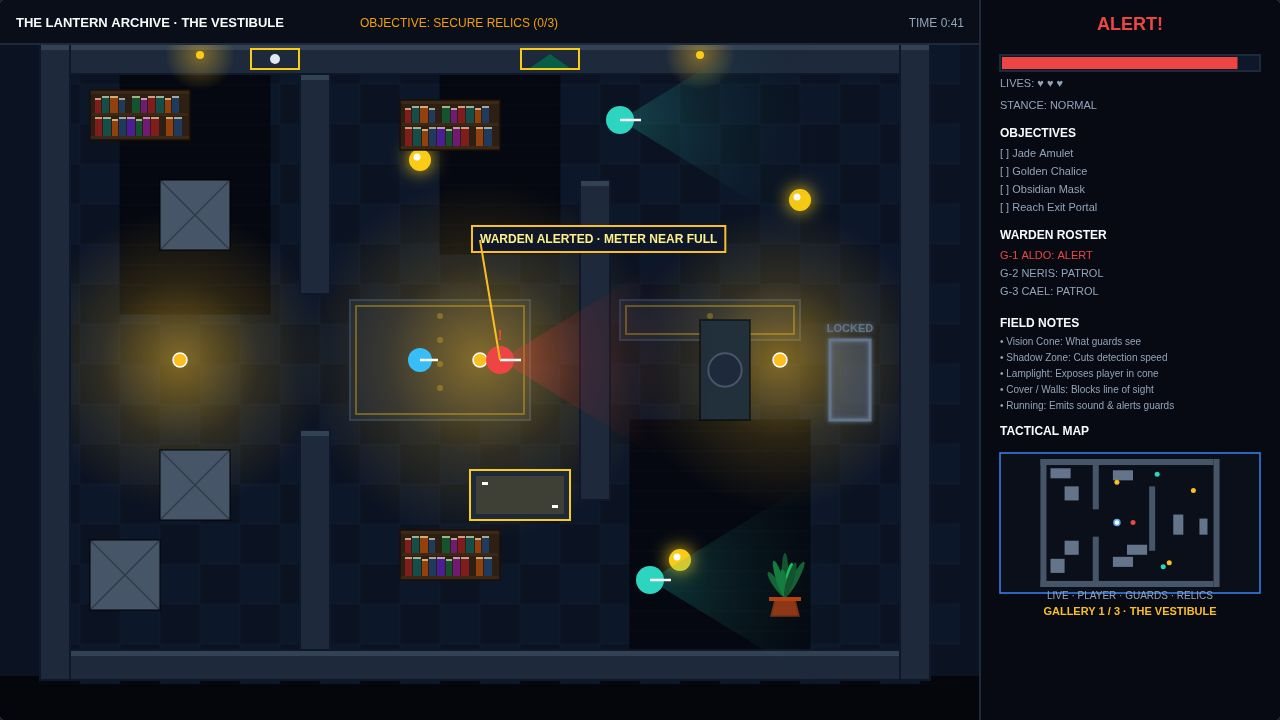
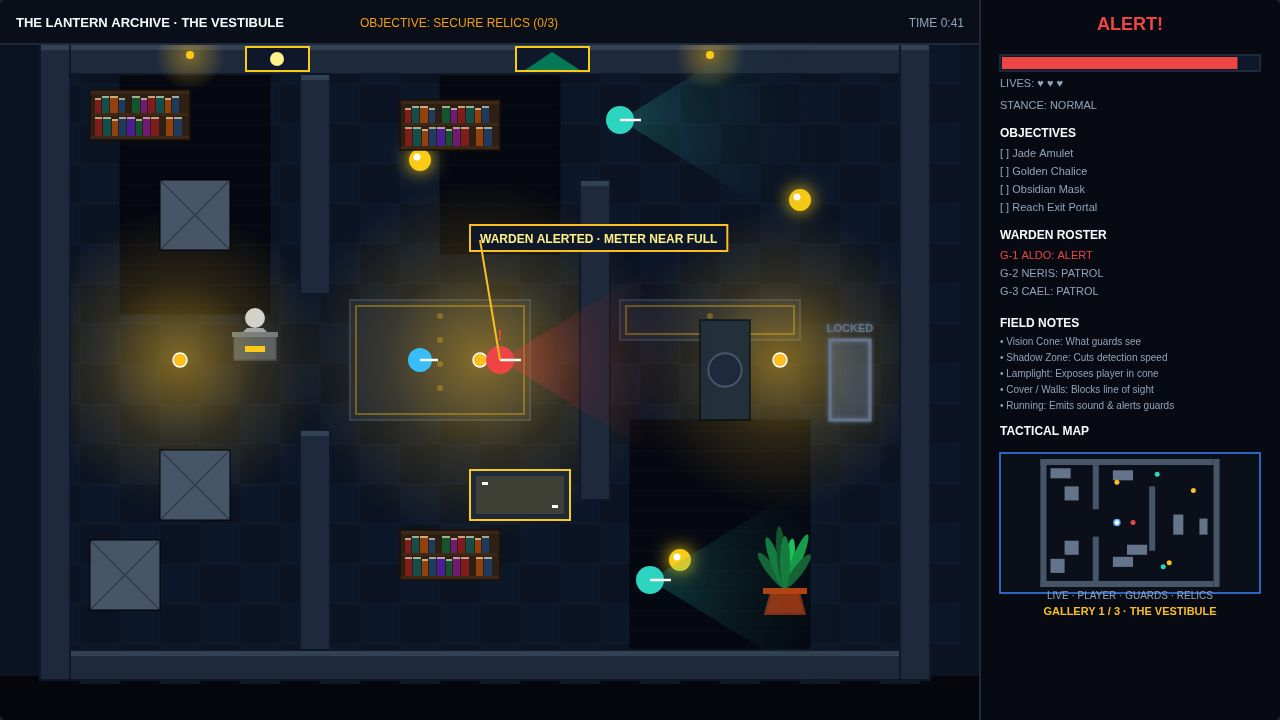
Round 5 visual fix: sneak label off bookshelf, brighter cover callout, bigger plant, statue prop, bolder paintings

diff --git a/game/src/render.js b/game/src/render.js
@@ -22,14 +22,19 @@ export class Renderer {
     // 3. Render Right Side Panel
     this.renderSidePanel(world);
     
-    // 4. Render Screenshot Annotations if requested
-    if (screenshotMode && shotName) {
+    // 4. Render Screenshot Annotations if requested (skip cover here, render cover after overlay)
+    if (screenshotMode && shotName && shotName !== 'cover') {
       this.renderAnnotations(shotName);
     }
     
     // 5. Render Overlay Screens if not playing
     if (world.state !== 'play') {
       this.renderScreen(world);
+    }
+    
+    // 6. Render Cover Annotation on top of title overlay if cover shot mode
+    if (screenshotMode && shotName === 'cover') {
+      this.renderAnnotations(shotName);
     }
   }
   
@@ -68,7 +73,6 @@ export class Renderer {
         this.ctx.strokeStyle = 'rgba(250, 204, 21, 0.35)';
         this.ctx.strokeRect(rug.x + 6, rug.y + 6, rug.w - 12, rug.h - 12);
         
-        // Diamond / dot motif along center
         this.ctx.fillStyle = 'rgba(250, 204, 21, 0.3)';
         const cx = rug.x + rug.w / 2;
         for (let ry = rug.y + 16; ry < rug.y + rug.h - 12; ry += 24) {
@@ -94,47 +98,83 @@ export class Renderer {
       }
     });
     
-    // Potted museum plants (Job 2)
+    // Decor / Museum Props (Enlarged Potted Plants & Statue Pedestal)
     if (lvl.decor) {
       lvl.decor.forEach(d => {
         this.ctx.save();
-        const px = d.x + d.w / 2;
-        const py = d.y + d.h;
-        
-        // Terracotta pot
-        this.ctx.fillStyle = '#9a3412';
-        this.ctx.beginPath();
-        this.ctx.moveTo(px - 14, py - 4);
-        this.ctx.lineTo(px + 14, py - 4);
-        this.ctx.lineTo(px + 10, py - 20);
-        this.ctx.lineTo(px - 10, py - 20);
-        this.ctx.closePath();
-        this.ctx.fill();
-        
-        this.ctx.strokeStyle = '#7c2d12';
-        this.ctx.lineWidth = 1.5;
-        this.ctx.stroke();
-        
-        // Pot rim
-        this.ctx.fillStyle = '#c2410c';
-        this.ctx.fillRect(px - 16, py - 23, 32, 4);
-        
-        // Leaves in muted greens
-        const greens = ['#166534', '#15803d', '#14532d', '#22c55e'];
-        const leafAngles = [-0.6, -0.3, 0, 0.2, 0.5, -0.1, 0.3];
-        const leafHeights = [30, 38, 44, 35, 40, 28, 36];
-        
-        leafAngles.forEach((ang, idx) => {
-          this.ctx.save();
-          this.ctx.fillStyle = greens[idx % greens.length];
-          this.ctx.translate(px, py - 23);
-          this.ctx.rotate(ang);
+        if (d.type === 'statue') {
+          // Statue on a pedestal (Job 4)
+          const px = d.x + d.w / 2;
+          const py = d.y + d.h;
+          
+          // Plinth base
+          this.ctx.fillStyle = '#475569';
+          this.ctx.fillRect(d.x + 4, py - 24, d.w - 8, 24);
+          this.ctx.strokeStyle = '#334155';
+          this.ctx.lineWidth = 1.5;
+          this.ctx.strokeRect(d.x + 4, py - 24, d.w - 8, 24);
+          
+          // Plinth cap
+          this.ctx.fillStyle = '#64748b';
+          this.ctx.fillRect(d.x + 2, py - 28, d.w - 4, 5);
+          
+          // Gold plaque
+          this.ctx.fillStyle = '#facc15';
+          this.ctx.fillRect(px - 10, py - 14, 20, 6);
+          
+          // Statue bust / figure silhouette
+          this.ctx.fillStyle = '#cbd5e1';
           this.ctx.beginPath();
-          this.ctx.ellipse(0, -leafHeights[idx]/2, 3.5, leafHeights[idx]/2, 0, 0, Math.PI * 2);
+          this.ctx.arc(px, py - 42, 10, 0, Math.PI * 2);
           this.ctx.fill();
-          this.ctx.restore();
-        });
-        
+          this.ctx.fillStyle = '#94a3b8';
+          this.ctx.beginPath();
+          this.ctx.moveTo(px - 12, py - 28);
+          this.ctx.lineTo(px + 12, py - 28);
+          this.ctx.lineTo(px + 8, py - 32);
+          this.ctx.lineTo(px - 8, py - 32);
+          this.ctx.closePath();
+          this.ctx.fill();
+          
+        } else {
+          // Enlarged Potted plant (~1.4x - Job 3)
+          const px = d.x + d.w / 2;
+          const py = d.y + d.h;
+          
+          // Terracotta pot
+          this.ctx.fillStyle = '#9a3412';
+          this.ctx.beginPath();
+          this.ctx.moveTo(px - 20, py - 6);
+          this.ctx.lineTo(px + 20, py - 6);
+          this.ctx.lineTo(px + 14, py - 28);
+          this.ctx.lineTo(px - 14, py - 28);
+          this.ctx.closePath();
+          this.ctx.fill();
+          
+          this.ctx.strokeStyle = '#7c2d12';
+          this.ctx.lineWidth = 2;
+          this.ctx.stroke();
+          
+          // Pot rim
+          this.ctx.fillStyle = '#c2410c';
+          this.ctx.fillRect(px - 22, py - 32, 44, 6);
+          
+          // Leaves in muted greens (larger)
+          const greens = ['#166534', '#15803d', '#14532d', '#22c55e', '#16a34a'];
+          const leafAngles = [-0.65, -0.35, -0.1, 0.15, 0.4, 0.65, 0];
+          const leafHeights = [44, 54, 62, 50, 58, 42, 52];
+          
+          leafAngles.forEach((ang, idx) => {
+            this.ctx.save();
+            this.ctx.fillStyle = greens[idx % greens.length];
+            this.ctx.translate(px, py - 32);
+            this.ctx.rotate(ang);
+            this.ctx.beginPath();
+            this.ctx.ellipse(0, -leafHeights[idx]/2, 5, leafHeights[idx]/2, 0, 0, Math.PI * 2);
+            this.ctx.fill();
+            this.ctx.restore();
+          });
+        }
         this.ctx.restore();
       });
     }
@@ -197,7 +237,7 @@ export class Renderer {
     this.ctx.fillText(allRelics ? 'EXIT' : 'LOCKED', ex.x + ex.width / 2, ex.y - 8);
     this.ctx.restore();
     
-    // Walls & Wall Art / Sconces (Job 3)
+    // Walls
     lvl.walls.forEach(w => {
       this.ctx.fillStyle = CONFIG.COLORS.wall;
       this.ctx.fillRect(w.x, w.y, w.w, w.h);
@@ -208,29 +248,31 @@ export class Renderer {
       this.ctx.strokeRect(w.x, w.y, w.w, w.h);
     });
     
-    // Framed paintings & Sconces on top wall area
+    // Bolder, enlarged top-wall paintings & Sconces (Job 5)
     this.ctx.save();
+    // Painting 1 (Moon portrait)
     this.ctx.fillStyle = '#facc15';
-    this.ctx.fillRect(250, 48, 50, 22);
-    this.ctx.fillStyle = '#1e293b';
-    this.ctx.fillRect(252, 50, 46, 18);
-    this.ctx.fillStyle = '#e2e8f0';
+    this.ctx.fillRect(245, 46, 65, 26);
+    this.ctx.fillStyle = '#0f172a';
+    this.ctx.fillRect(247, 48, 61, 22);
+    this.ctx.fillStyle = '#fef08a'; // larger pale moon disc
     this.ctx.beginPath();
-    this.ctx.arc(275, 59, 5, 0, Math.PI * 2);
+    this.ctx.arc(277, 59, 7, 0, Math.PI * 2);
     this.ctx.fill();
 
+    // Painting 2 (Mountain landscape with clearer ridge)
     this.ctx.fillStyle = '#facc15';
-    this.ctx.fillRect(520, 48, 60, 22);
-    this.ctx.fillStyle = '#1e293b';
-    this.ctx.fillRect(522, 50, 56, 18);
-    this.ctx.fillStyle = '#065f46';
+    this.ctx.fillRect(515, 46, 75, 26);
+    this.ctx.fillStyle = '#0f172a';
+    this.ctx.fillRect(517, 48, 71, 22);
+    this.ctx.fillStyle = '#047857'; // darker mountain silhouette
     this.ctx.beginPath();
-    this.ctx.moveTo(530, 68);
-    this.ctx.lineTo(550, 54);
-    this.ctx.lineTo(570, 68);
+    this.ctx.moveTo(525, 70);
+    this.ctx.lineTo(552, 52);
+    this.ctx.lineTo(580, 70);
     this.ctx.fill();
 
-    const sconces = [{x: 200, y: 55}, {x: 700, y: 55}];
+    const sconces = [{x: 190, y: 55}, {x: 710, y: 55}];
     sconces.forEach(sc => {
       const sgrad = this.ctx.createRadialGradient(sc.x, sc.y, 2, sc.x, sc.y, 35);
       sgrad.addColorStop(0, 'rgba(251, 191, 36, 0.4)');
@@ -247,20 +289,17 @@ export class Renderer {
     });
     this.ctx.restore();
     
-    // Cover props (Job 1 Bookshelves)
+    // Cover props (Bookshelves)
     lvl.cover.forEach(c => {
       this.ctx.save();
       if (c.type === 'bookshelf') {
-        // Outer frame: dark wood border
         this.ctx.fillStyle = '#2d1f14';
         this.ctx.fillRect(c.x, c.y, c.w, c.h);
         
-        // Top cornice & bottom plinth
         this.ctx.fillStyle = '#3d2817';
         this.ctx.fillRect(c.x, c.y, c.w, 4);
         this.ctx.fillRect(c.x, c.y + c.h - 4, c.w, 4);
         
-        // Rows
         const numRows = c.h >= 80 ? 3 : 2;
         const rowH = (c.h - 8) / numRows;
         
@@ -293,7 +332,6 @@ export class Renderer {
             this.ctx.fillStyle = col;
             this.ctx.fillRect(bx, bY, spineW, bH);
             
-            // Page edge highlight
             this.ctx.fillStyle = 'rgba(254, 243, 199, 0.6)';
             this.ctx.fillRect(bx, bY, spineW, 2);
             
@@ -361,7 +399,6 @@ export class Renderer {
       this.ctx.fill();
       this.ctx.restore();
       
-      // Guard body
       this.ctx.save();
       this.ctx.fillStyle = g.state === 'alert' ? CONFIG.COLORS.guardAlert :
                            g.state === 'suspicious' ? CONFIG.COLORS.guardAmber : CONFIG.COLORS.guardTeal;
@@ -469,7 +506,6 @@ export class Renderer {
     
     let curY = 30;
     
-    // 1. Detection State Word Banner
     let stateWord = "UNDETECTED";
     let stateCol = CONFIG.COLORS.success;
     if (world.detectionMeter > 0.7) {
@@ -486,7 +522,6 @@ export class Renderer {
     this.ctx.fillText(stateWord, x + w / 2, curY);
     curY += 25;
     
-    // Detection Meter Bar
     const barW = w - 40;
     const barH = 16;
     this.ctx.fillStyle = '#0f172a';
@@ -498,7 +533,6 @@ export class Renderer {
     this.ctx.fillRect(x + 22, curY + 2, (barW - 4) * world.detectionMeter, barH - 4);
     curY += 32;
     
-    // 2. Status & Meters
     this.ctx.textAlign = 'left';
     this.ctx.fillStyle = CONFIG.COLORS.textMuted;
     this.ctx.font = '11px sans-serif';
@@ -509,7 +543,6 @@ export class Renderer {
     this.ctx.fillText(`STANCE: ${visibility}`, x + 20, curY);
     curY += 28;
     
-    // 3. Objectives Checklist
     this.ctx.fillStyle = CONFIG.COLORS.text;
     this.ctx.font = 'bold 12px sans-serif';
     this.ctx.fillText('OBJECTIVES', x + 20, curY);
@@ -528,7 +561,6 @@ export class Renderer {
     this.ctx.fillText(`${allRelics ? '[✓]' : '[ ]'} Reach Exit Portal`, x + 20, curY);
     curY += 28;
     
-    // 4. Guard Roster
     this.ctx.fillStyle = CONFIG.COLORS.text;
     this.ctx.font = 'bold 12px sans-serif';
     this.ctx.fillText('WARDEN ROSTER', x + 20, curY);
@@ -542,7 +574,6 @@ export class Renderer {
     });
     curY += 14;
     
-    // 5. Field Notes Legend
     this.ctx.fillStyle = CONFIG.COLORS.text;
     this.ctx.font = 'bold 12px sans-serif';
     this.ctx.fillText('FIELD NOTES', x + 20, curY);
@@ -563,7 +594,7 @@ export class Renderer {
     });
     curY += 10;
     
-    // 6. Tactical Map (Brighter minimap - Job 4)
+    // Tactical Map
     this.ctx.fillStyle = CONFIG.COLORS.text;
     this.ctx.font = 'bold 12px sans-serif';
     this.ctx.fillText('TACTICAL MAP', x + 20, curY);
@@ -574,7 +605,7 @@ export class Renderer {
     const mapBoxW = w - 40;
     const mapBoxH = 140;
     
-    this.ctx.fillStyle = '#0b0f19'; // slightly lighter map bg
+    this.ctx.fillStyle = '#0b0f19';
     this.ctx.fillRect(mapBoxX, mapBoxY, mapBoxW, mapBoxH);
     this.ctx.strokeStyle = '#3b82f6';
     this.ctx.lineWidth = 1.5;
@@ -652,7 +683,6 @@ export class Renderer {
     this.ctx.fillText('LIVE · PLAYER · GUARDS · RELICS', mapBoxX + mapBoxW / 2, curY);
     curY += 16;
     
-    // Gallery progress fill (Job 4)
     this.ctx.fillStyle = CONFIG.COLORS.lamp;
     this.ctx.font = 'bold 11px sans-serif';
     this.ctx.fillText(`GALLERY ${world.level.id} / 3 · ${world.level.name.toUpperCase()}`, mapBoxX + mapBoxW / 2, curY);
@@ -663,22 +693,21 @@ export class Renderer {
   renderAnnotations(shotName) {
     this.ctx.save();
     
-    const drawCallout = (text, lx, ly, tx, ty) => {
-      this.ctx.font = 'bold 12px sans-serif';
+    const drawCallout = (text, lx, ly, tx, ty, isCover = false) => {
+      this.ctx.font = isCover ? 'bold 13px sans-serif' : 'bold 12px sans-serif';
       const tw = this.ctx.measureText(text).width;
       
-      // Stronger backing pill & higher contrast (Job 4)
-      this.ctx.fillStyle = 'rgba(15, 23, 42, 0.95)';
+      this.ctx.fillStyle = isCover ? 'rgba(4, 6, 11, 0.98)' : 'rgba(15, 23, 42, 0.95)';
       this.ctx.strokeStyle = '#fbbf24';
-      this.ctx.lineWidth = 2;
-      this.ctx.fillRect(tx - 8, ty - 14, tw + 16, 26);
-      this.ctx.strokeRect(tx - 8, ty - 14, tw + 16, 26);
+      this.ctx.lineWidth = isCover ? 2.5 : 2;
+      this.ctx.fillRect(tx - 10, ty - 15, tw + 20, isCover ? 30 : 26);
+      this.ctx.strokeRect(tx - 10, ty - 15, tw + 20, isCover ? 30 : 26);
       
       this.ctx.fillStyle = '#fef08a';
-      this.ctx.fillText(text, tx, ty + 3);
+      this.ctx.fillText(text, tx, ty + (isCover ? 4 : 3));
       
       this.ctx.strokeStyle = '#fbbf24';
-      this.ctx.lineWidth = 2;
+      this.ctx.lineWidth = isCover ? 2.5 : 2;
       this.ctx.beginPath();
       this.ctx.moveTo(lx, ly);
       this.ctx.lineTo(tx, ty);
@@ -686,9 +715,10 @@ export class Renderer {
     };
     
     if (shotName === 'cover') {
-      drawCallout('3 GALLERIES · 9 RELICS · ESCAPE UNSEEN', 640, 578, 640, 640);
+      drawCallout('3 GALLERIES · 9 RELICS · ESCAPE UNSEEN', 640, 578, 640, 640, true);
     } else if (shotName === 'sneak') {
-      drawCallout('HIDDEN BEHIND CRATE (CONE STOPS)', 200, 220, 110, 130);
+      // Job 1: Shifted right to avoid top-left bookshelf (90..190, 90..140)
+      drawCallout('HIDDEN BEHIND CRATE', 200, 220, 270, 150);
     } else if (shotName === 'alert') {
       drawCallout('WARDEN ALERTED · METER NEAR FULL', 500, 360, 480, 240);
     } else if (shotName === 'exit') {

diff --git a/game/src/levels.js b/game/src/levels.js
@@ -43,7 +43,8 @@ export const LEVELS = [
       { x: 620, y: 300, w: 180, h: 40 }
     ],
     decor: [
-      { x: 740, y: 560, w: 90, h: 60 }
+      { x: 740, y: 560, w: 90, h: 60, type: 'plant' },
+      { x: 230, y: 310, w: 50, h: 50, type: 'statue' }
     ],
     guards: [
       {
